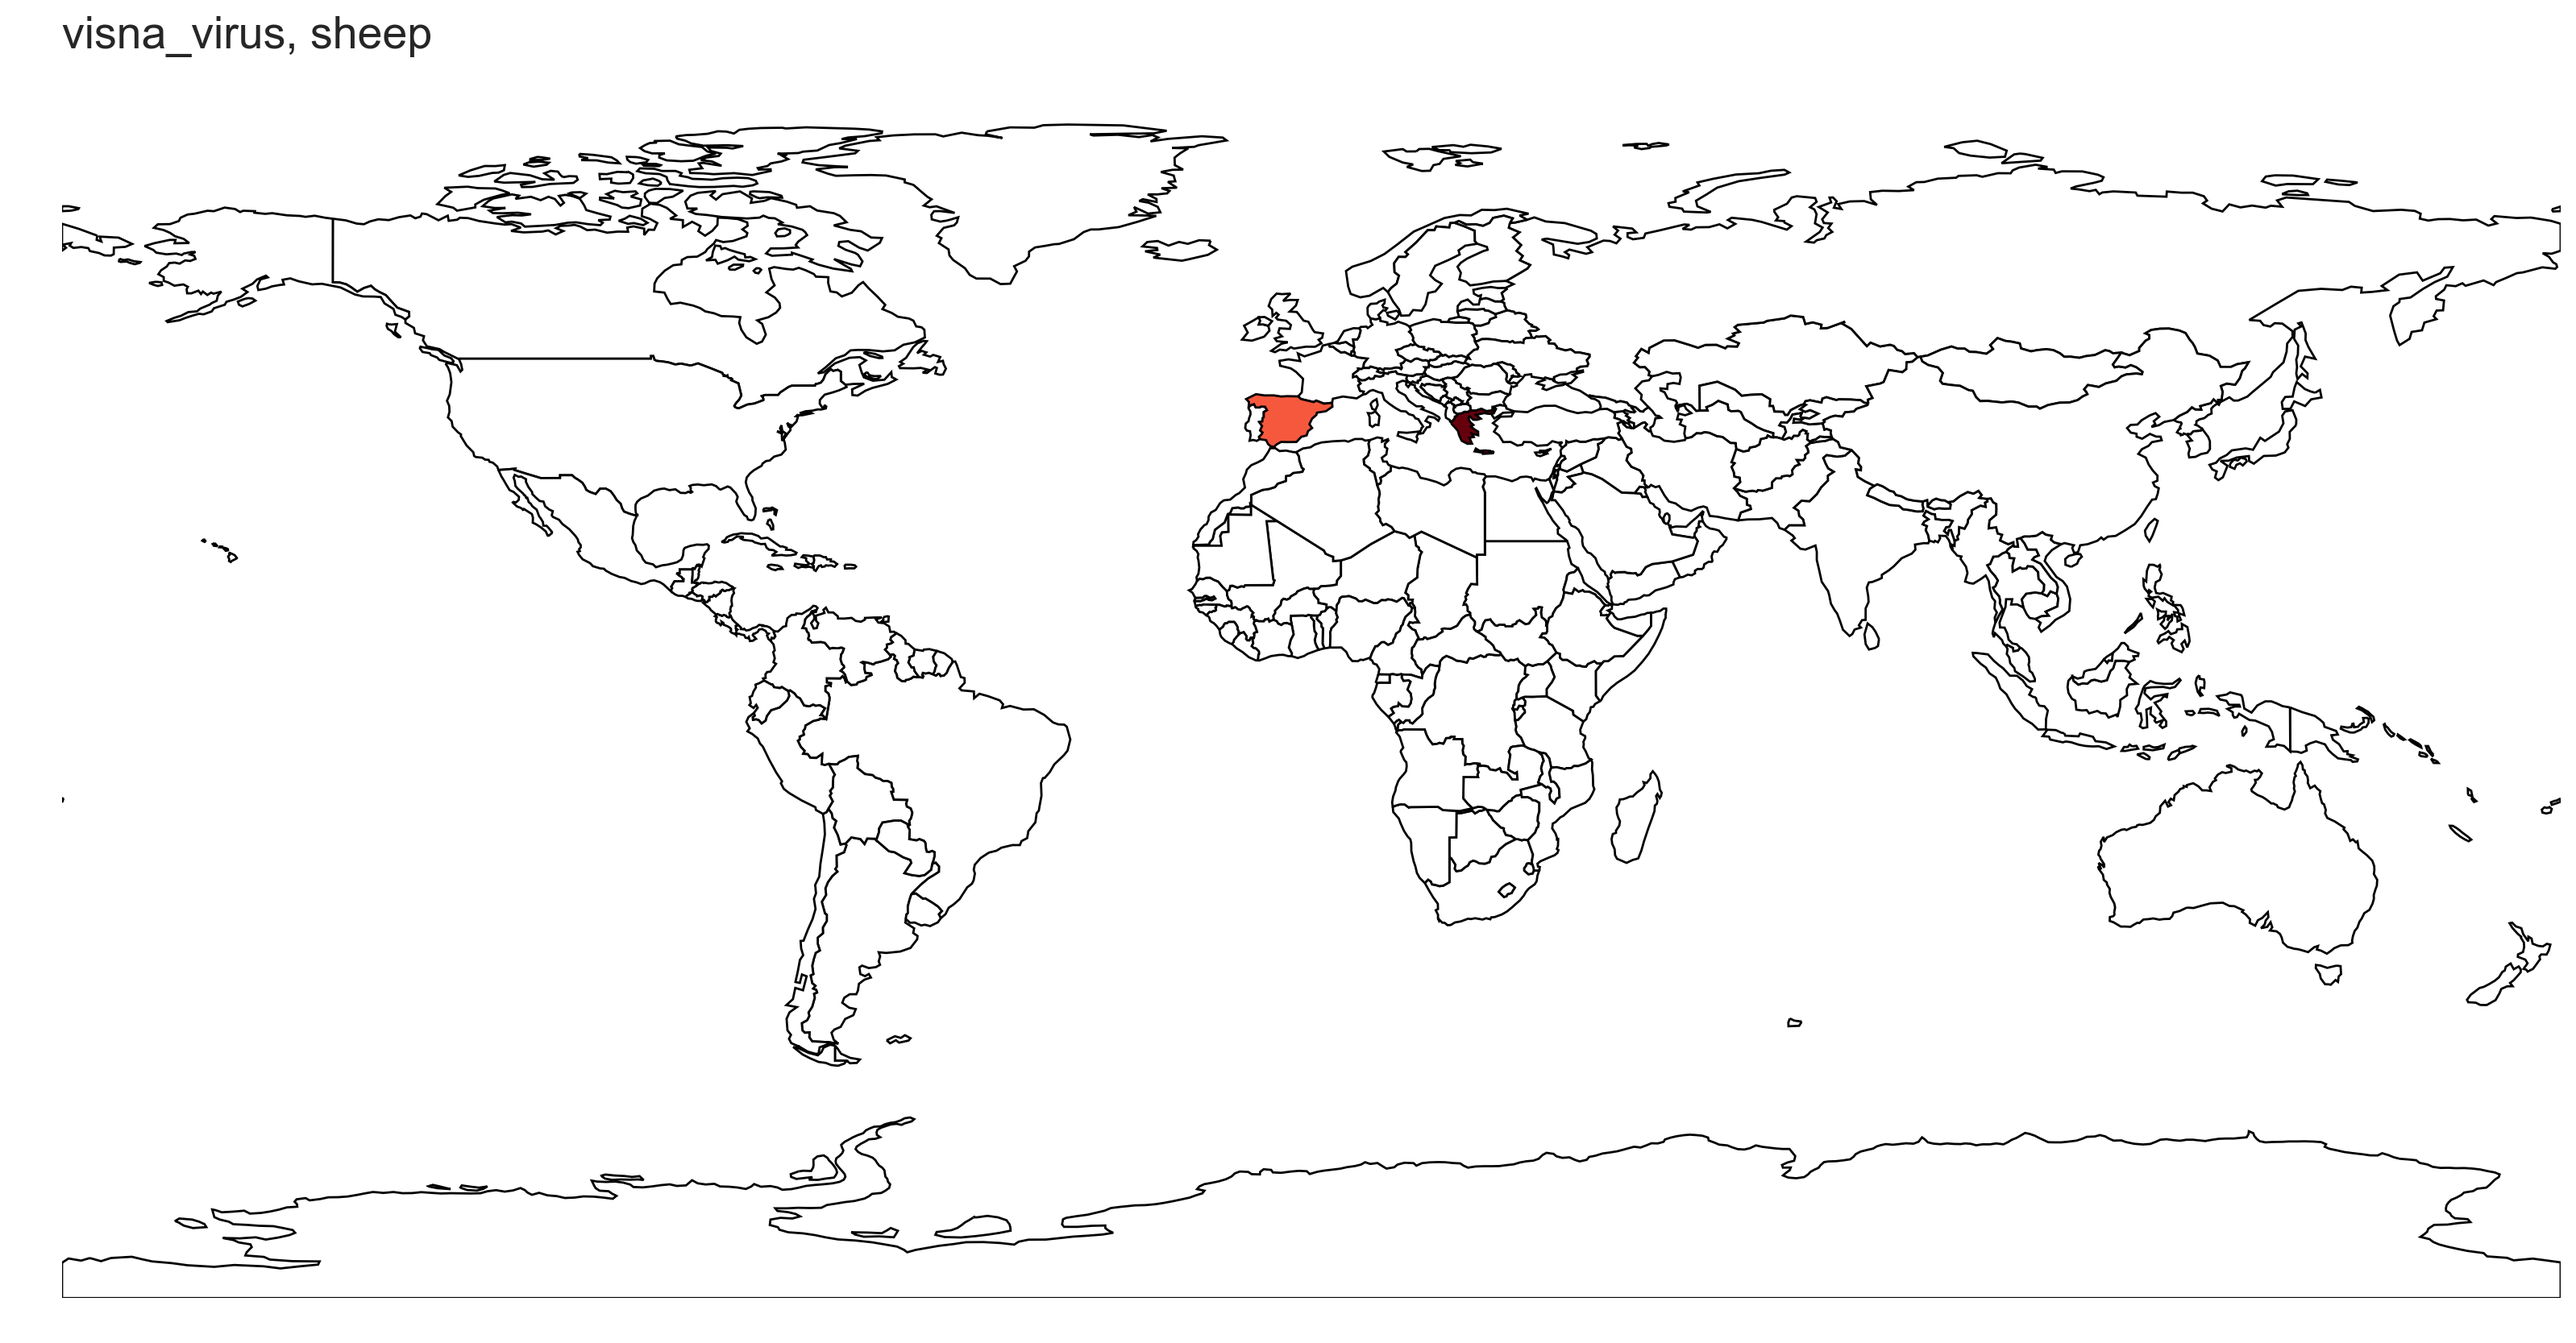
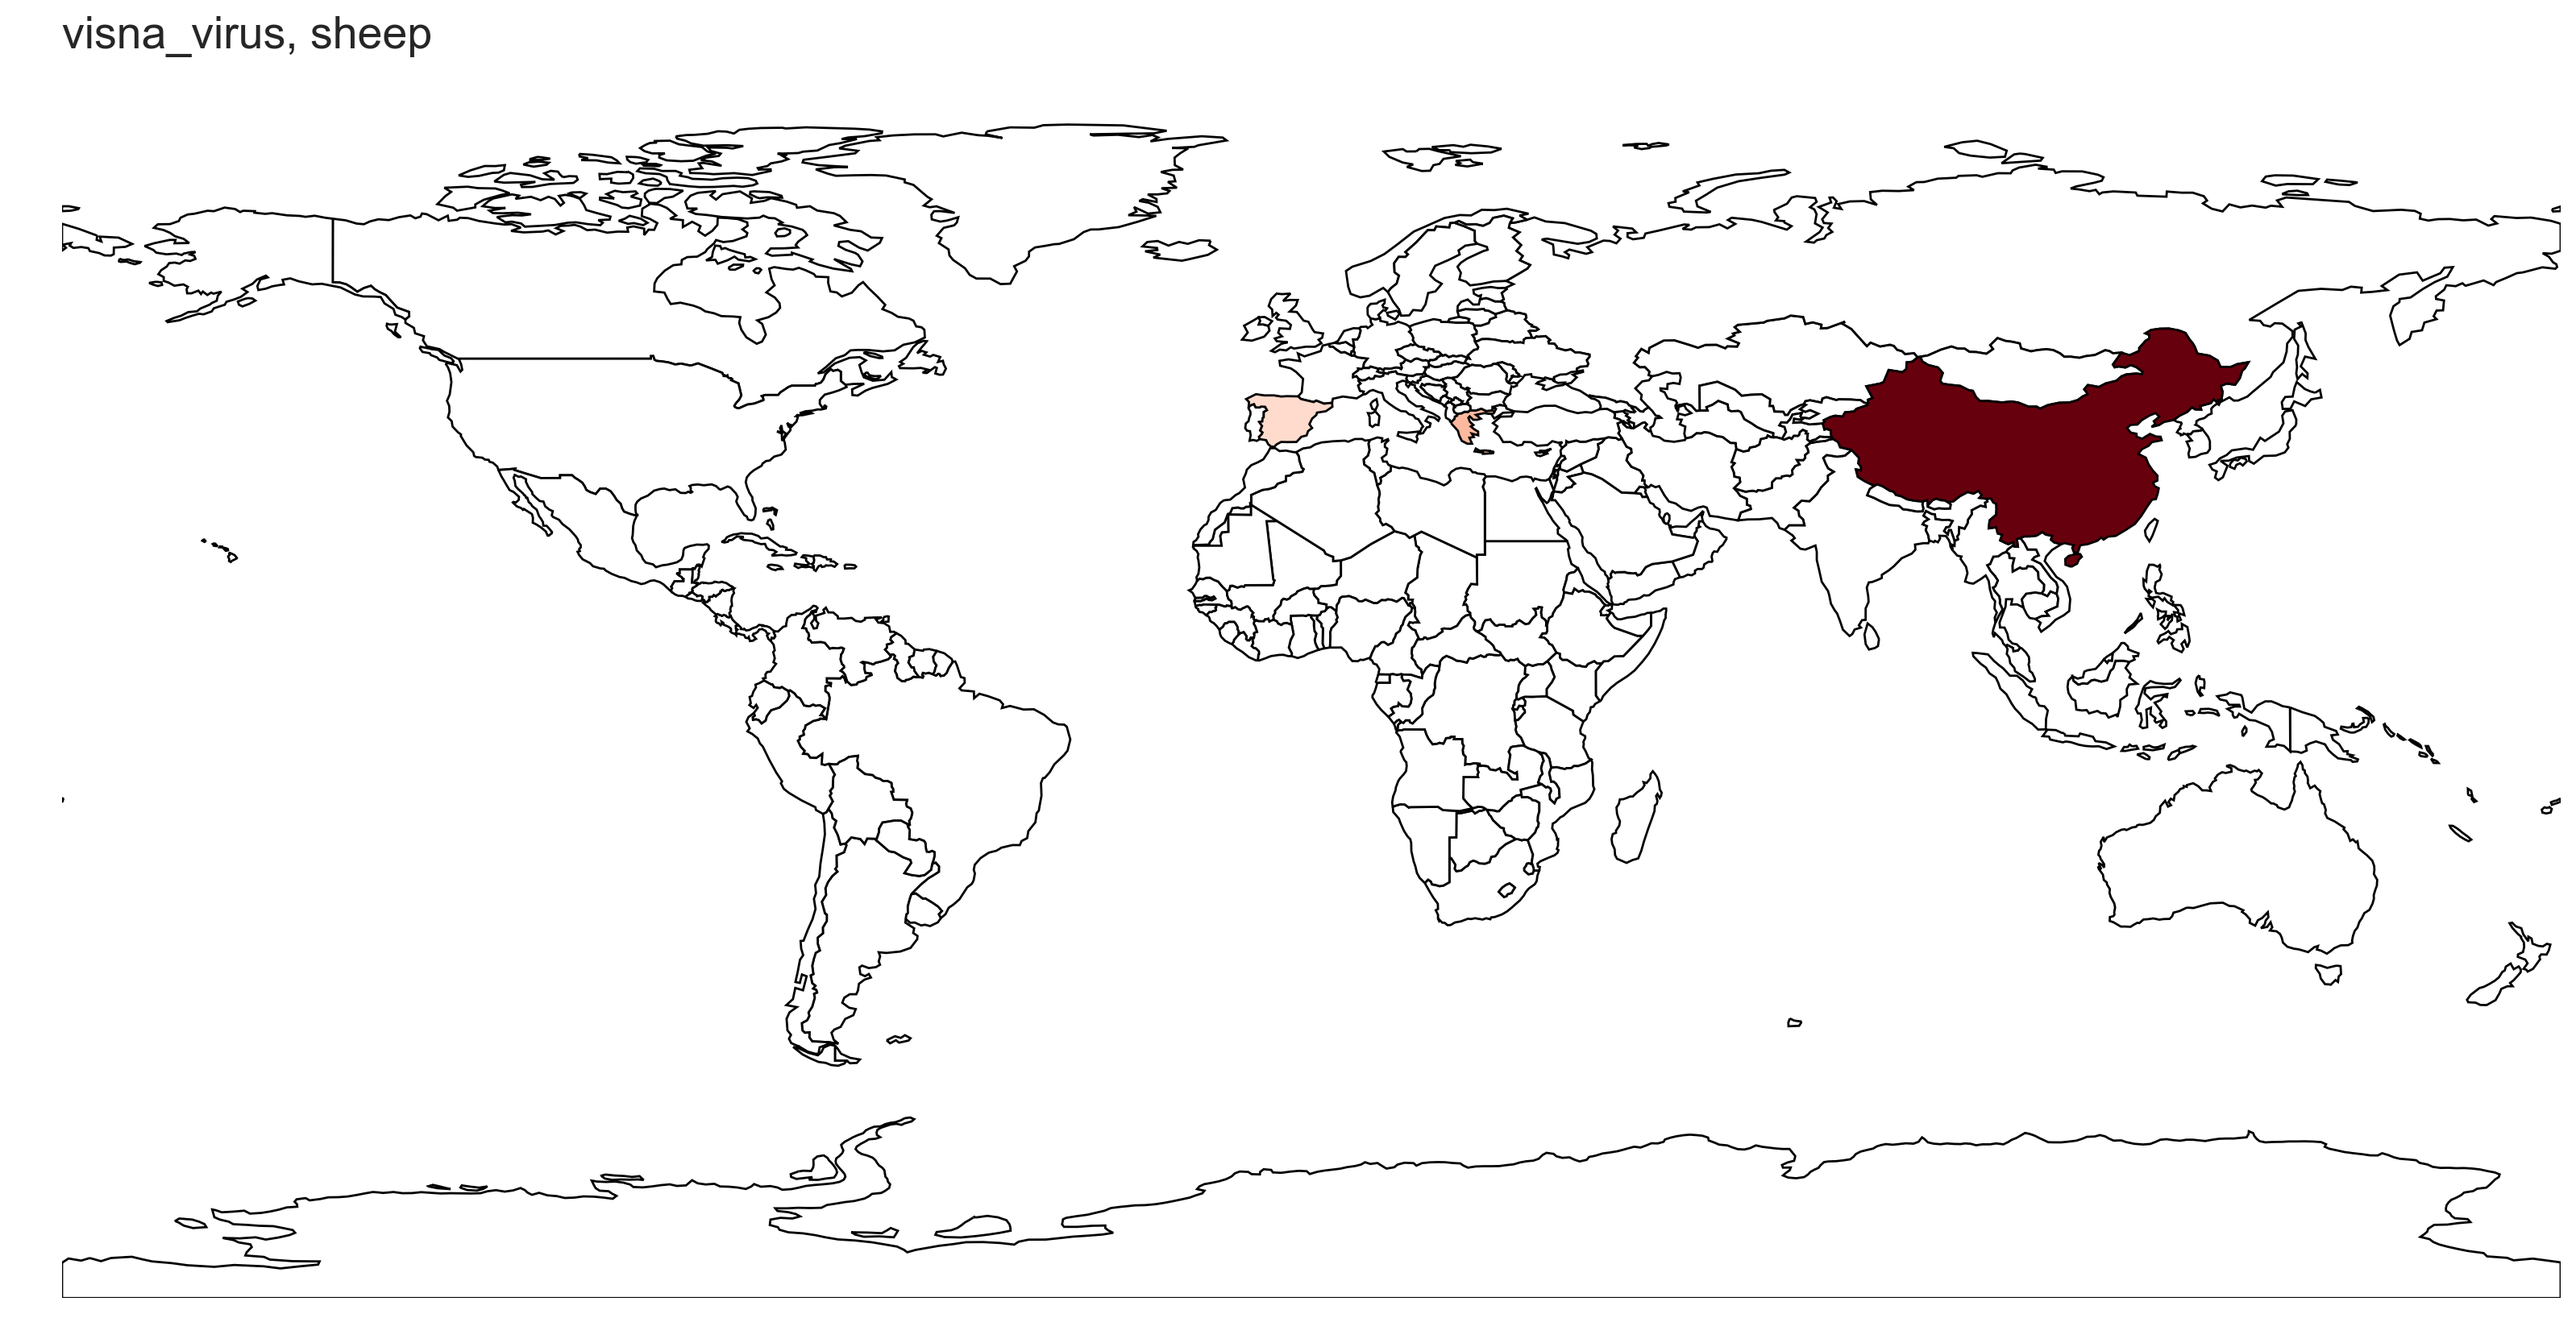
edits

Changed region(s): [[0.7125, 0.2496, 0.8673, 0.4055], [0.4646, 0.2807, 0.5266, 0.3431]]

diff --git a/visna_virus_sheep.html b/visna_virus_sheep.html
@@ -7,6 +7,10 @@
   </thead>
   <tbody>
     <tr>
+      <td>China</td>
+      <td>78</td>
+    </tr>
+    <tr>
       <td>Greece</td>
       <td>20</td>
     </tr>
